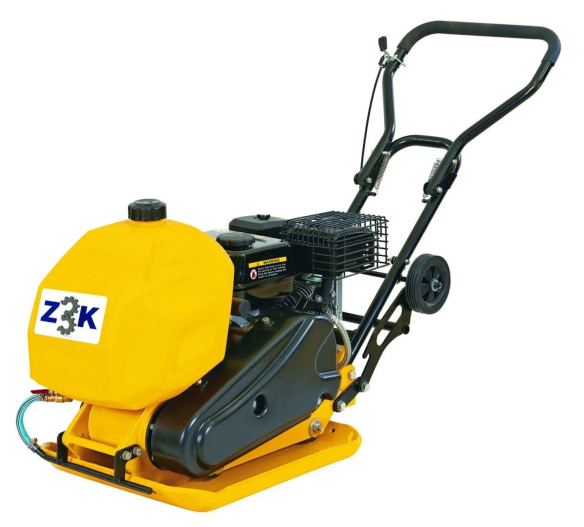
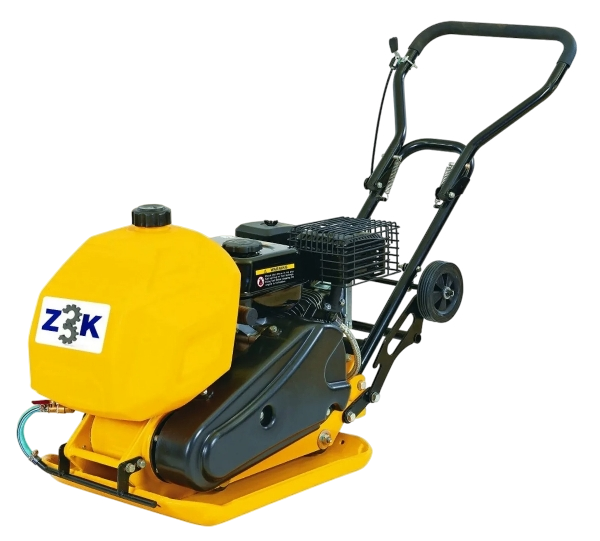
slider

diff --git a/src/assets/styles/Slider.css b/src/assets/styles/Slider.css
@@ -30,6 +30,10 @@
     gap: 10px;
   }
 
+  .slide__right img {
+    background: transparent;
+  }
+
   .slider__navigation button {
 		overflow: hidden;
     width: 50px;
